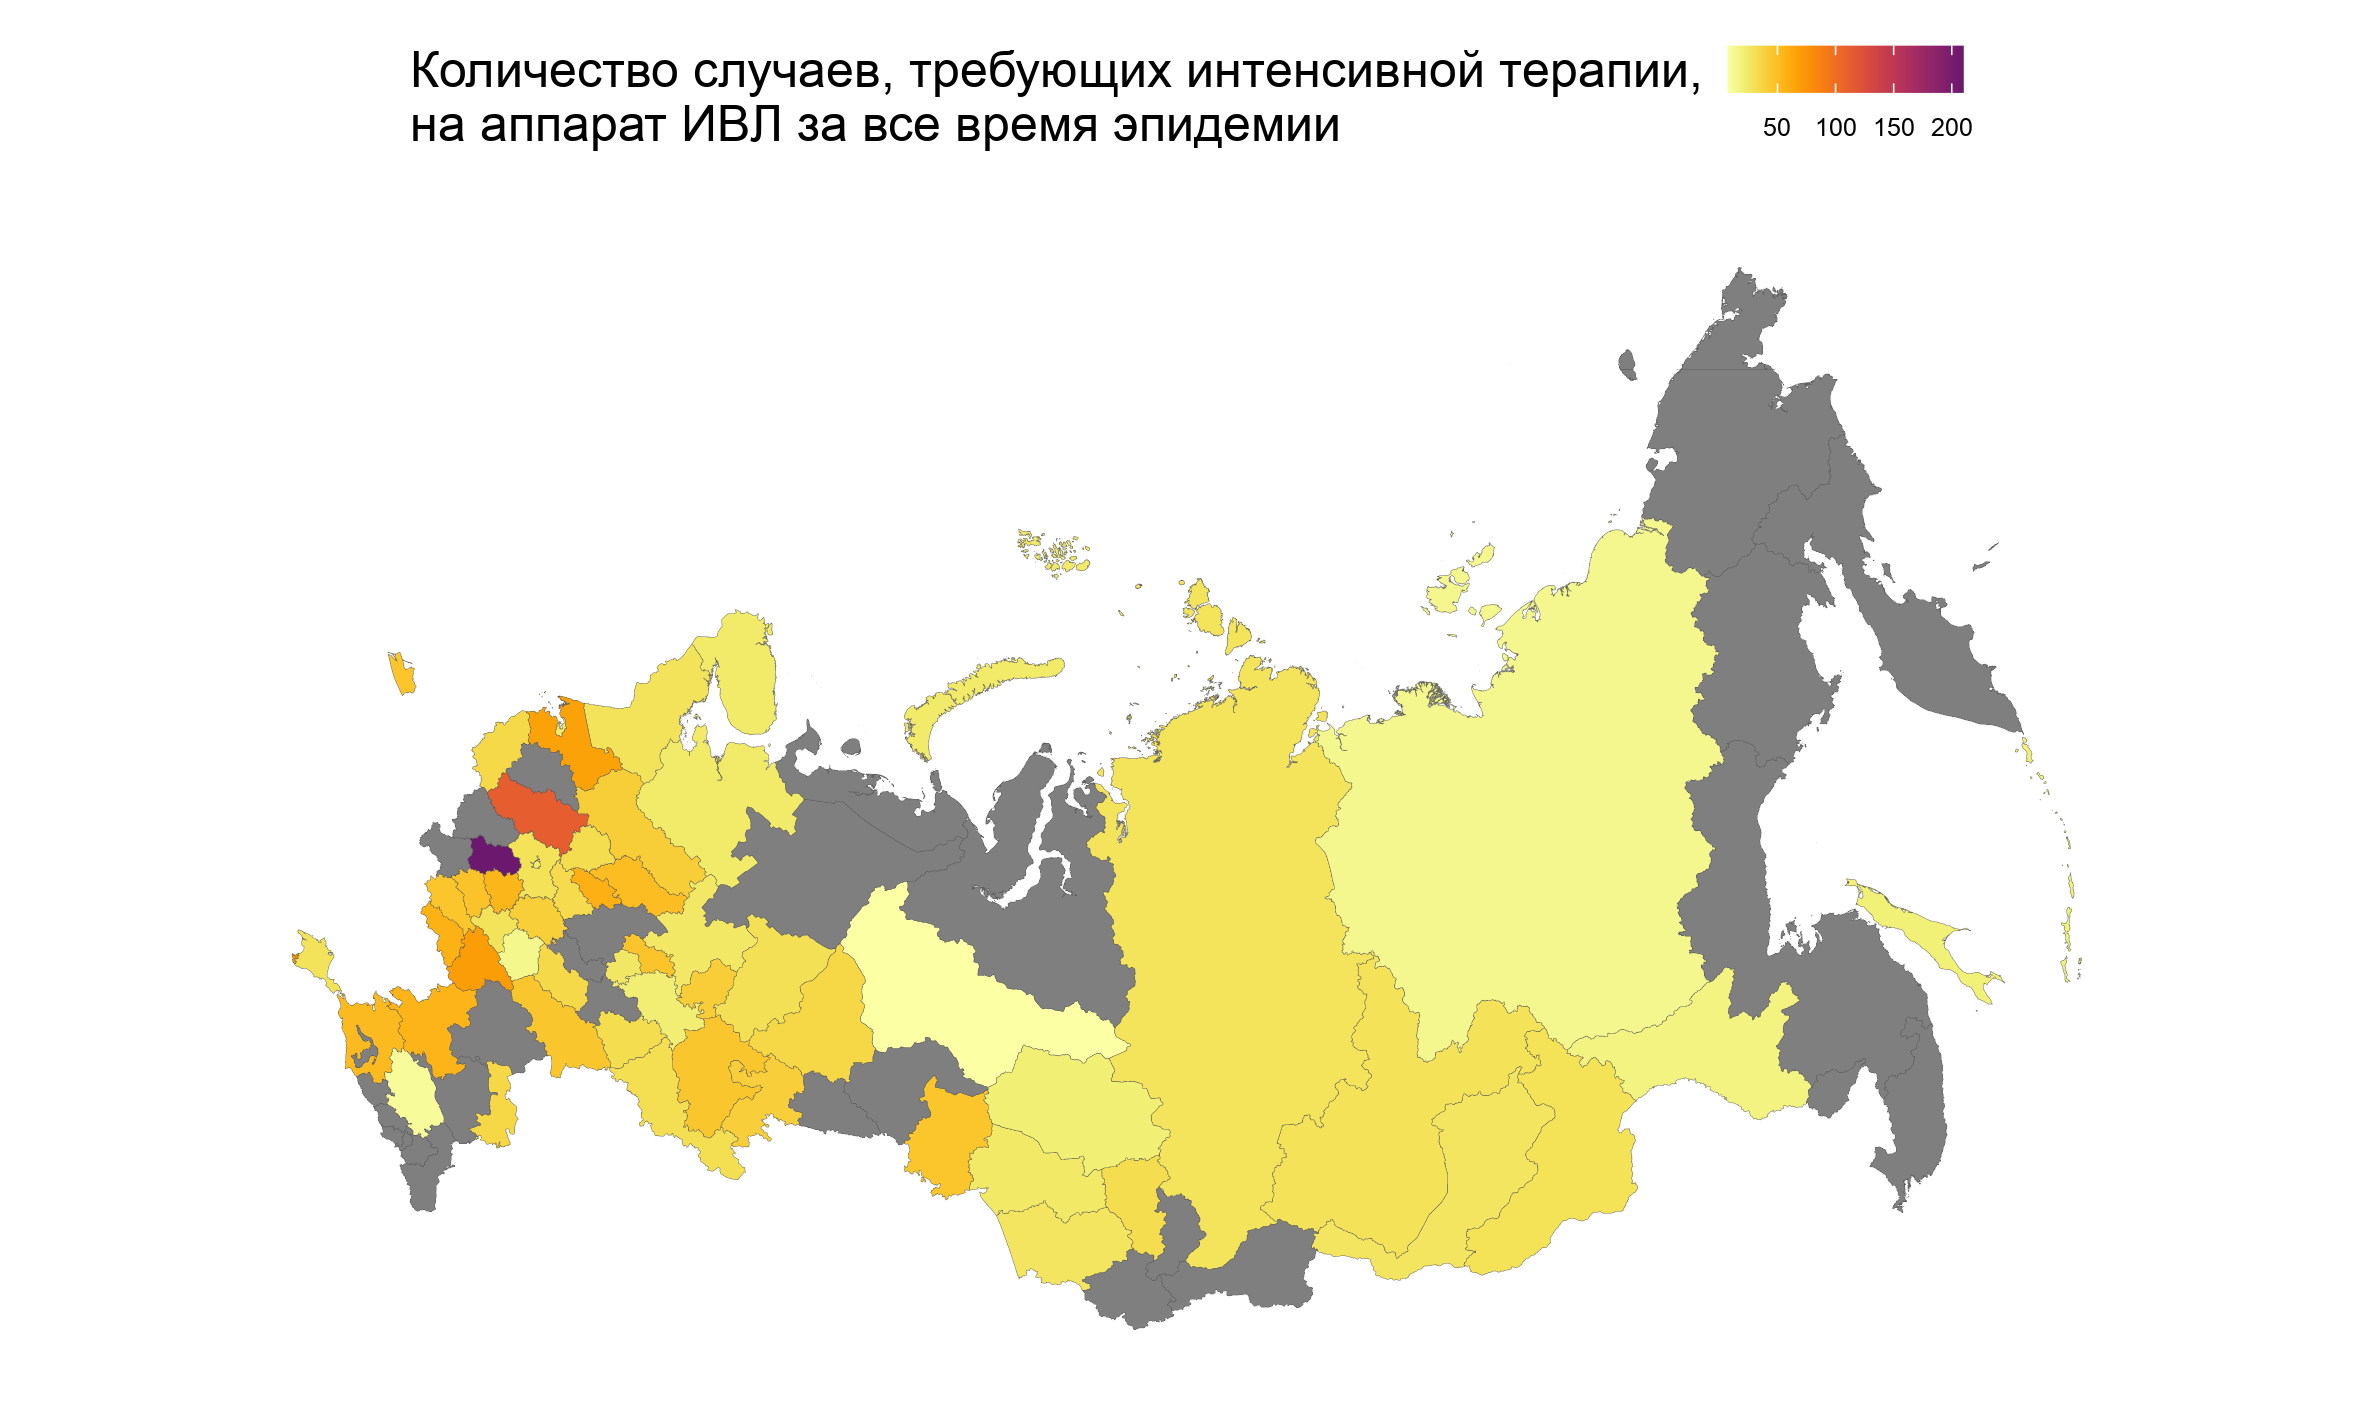
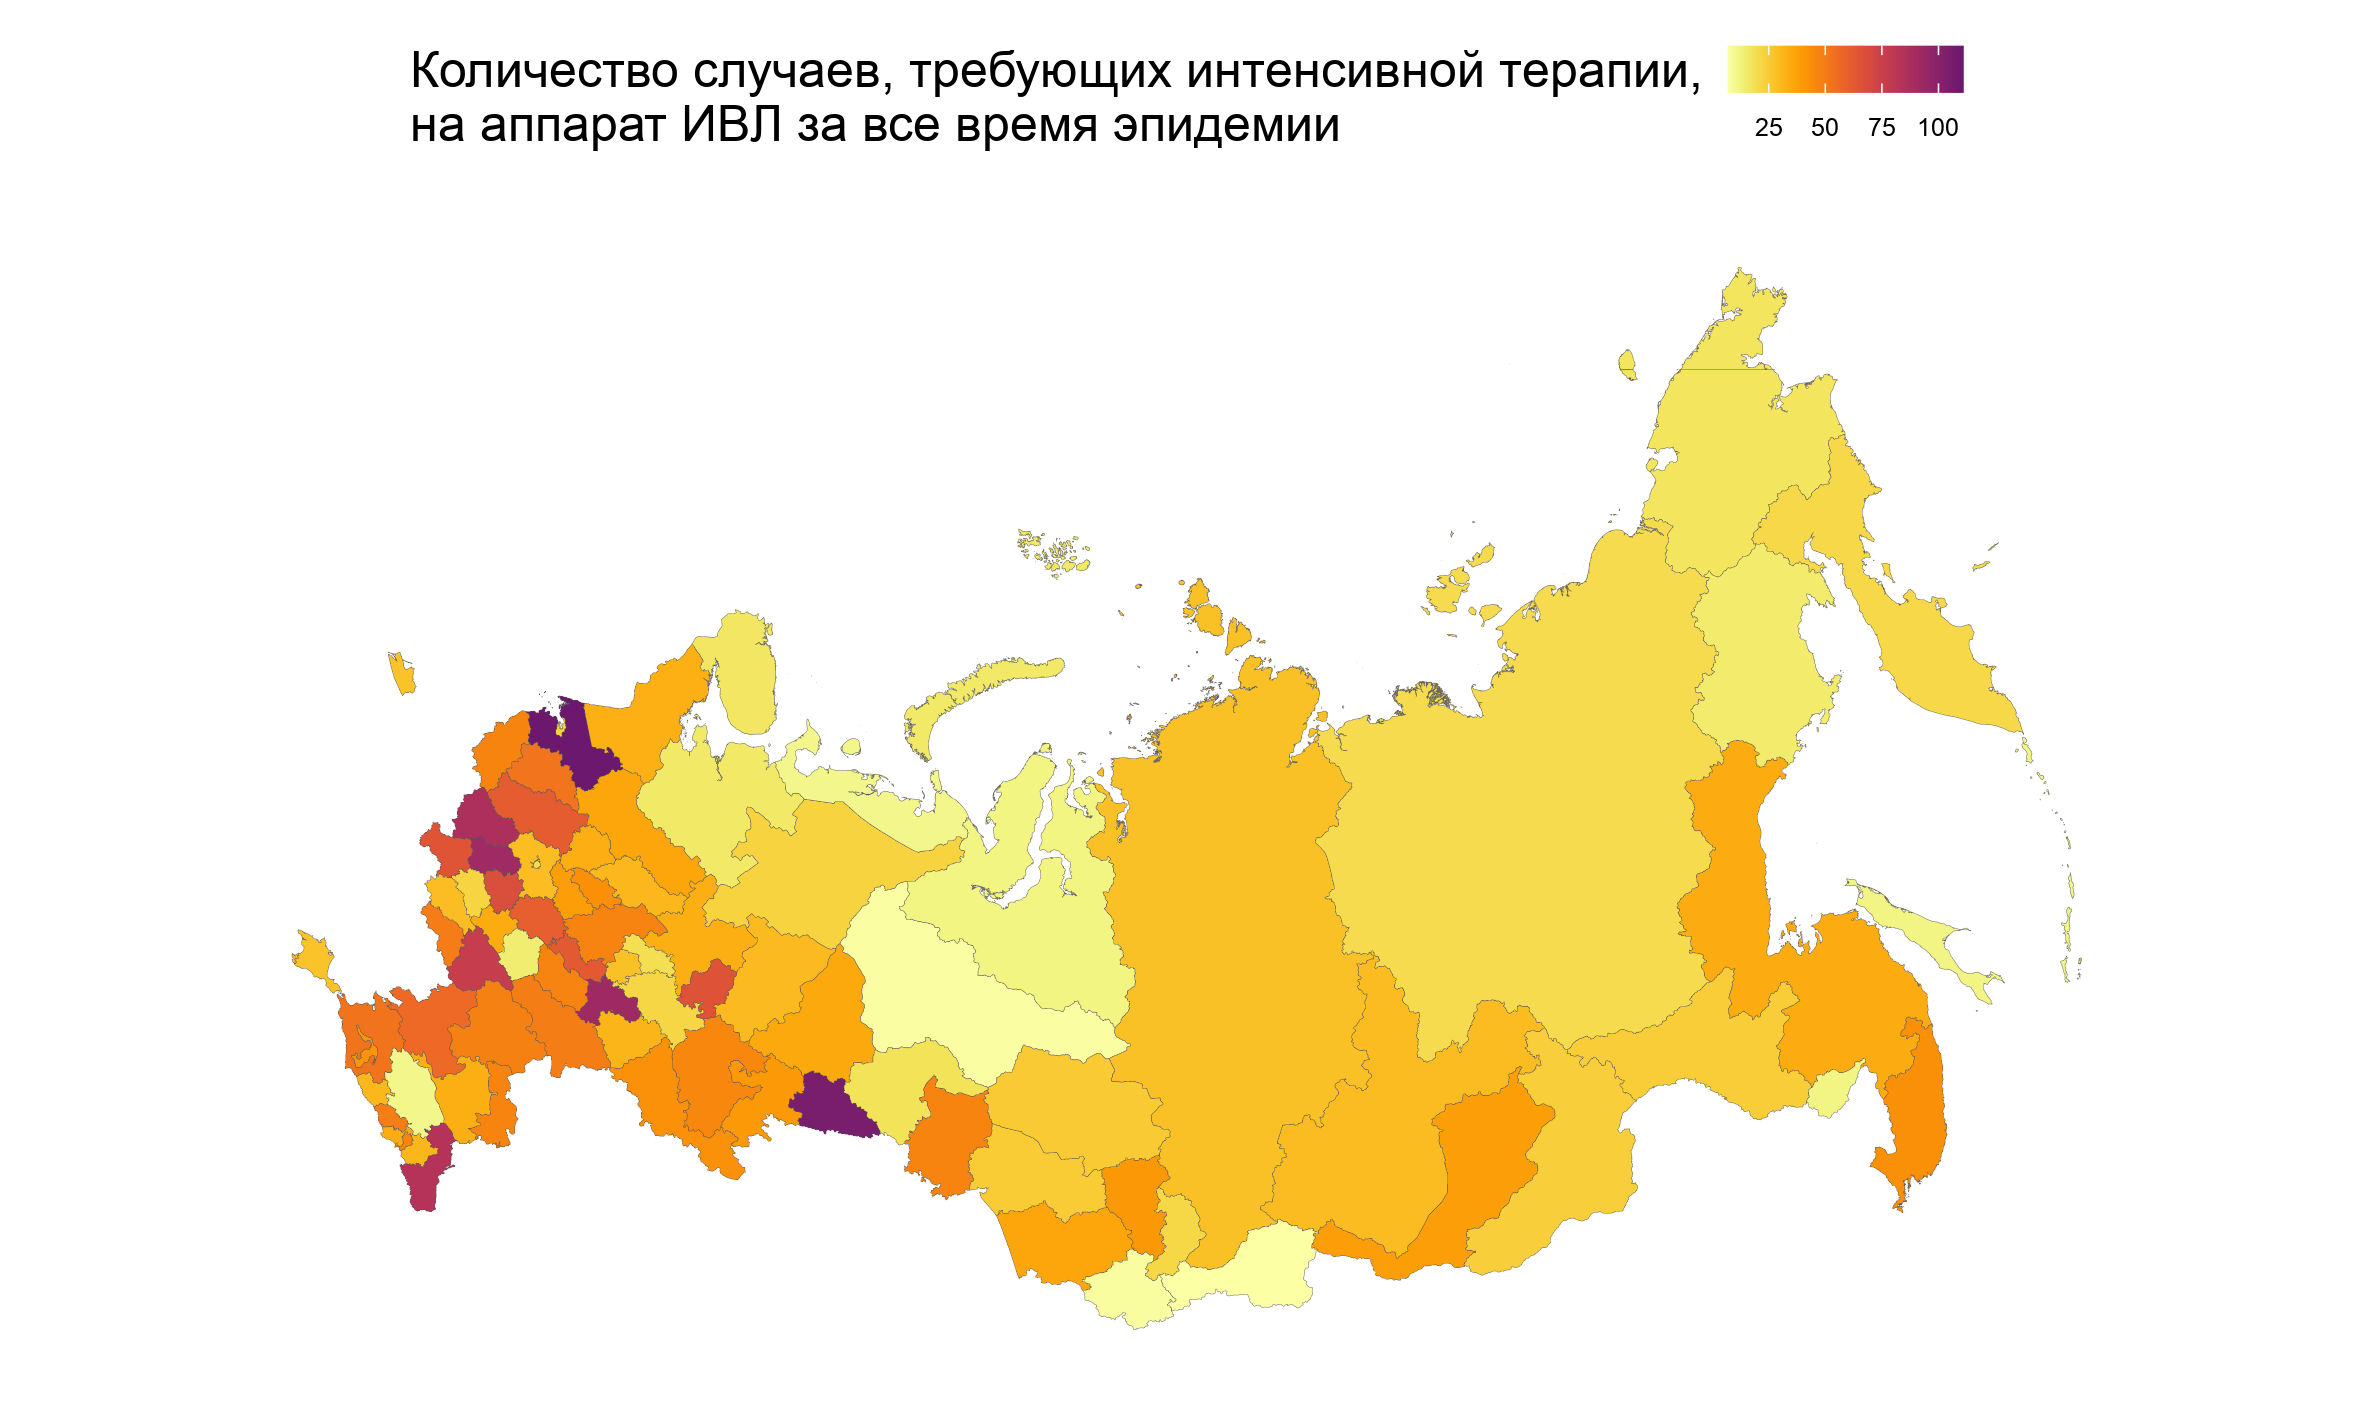
update IMV data

Changed region(s): [[0.1236, 0.1863, 0.8654, 0.9315], [0.7417, 0.0621, 0.8345, 0.0932], [0.4945, 0.4037, 0.5254, 0.4658]]

diff --git a/README_ru.md b/README_ru.md
@@ -64,7 +64,7 @@
 
 ![alt text](https://github.com/garushyants/covid19_russia_mapping/blob/master/Figures_ru/Fig5IMVper100000ru.png)
 
-Как показано выше, разница в демографической структуре между регионами будет приводить к изменению доли случаев, требующих интенсивной терапии. На фоне разного количества аппаратов ИВЛ в разных регионах эта разница ведет к значительным отличиям в нагрузке на аппараты ИВЛ в разных регионах в течение эпидемии. Оценочное число случаев, требующих интенсивной терапии, за время всей эпидемии в расчете на один аппарат ИВЛ варьирует от 7,4 в Ханты-Мансийском автономном округе до 210,0 в Калужской области.
+Как показано выше, разница в демографической структуре между регионами будет приводить к изменению доли случаев, требующих интенсивной терапии. На фоне разного количества аппаратов ИВЛ в разных регионах эта разница ведет к значительным отличиям в нагрузке на аппараты ИВЛ в разных регионах в течение эпидемии. Оценочное число случаев, требующих интенсивной терапии, за время всей эпидемии в расчете на один аппарат ИВЛ варьирует от 7,0 в Республике Тыва и 7,4 в Ханты-Мансийском автономном округе до 111,0 в Ленинградской области.
 
 ![alt text](https://github.com/garushyants/covid19_russia_mapping/blob/master/Figures_ru/Fig6CasesperIMVru.png)
 
@@ -79,6 +79,7 @@
 ### Данные по количеству аппаратов ИВЛ
 Оценки числа аппаратов ИВЛ по регионам России были получены из статьи на сайте [meduza.io](https://meduza.io/feature/2020/03/20/v-italii-iz-za-koronavirusa-katastroficheski-ne-hvataet-apparatov-ivl-v-rossii-ih-gorazdo-bolshe-no-eto-ne-znachit-chto-my-luchshe-gotovy-k-epidemii) и дополнены данными, опубликованными агенством Headway в [отчете](https://www.hwcompany.ru/blog/expert/nali4ie_apparatov_ivl_na_22_03_2020).
 Итоговая таблица, содержащая эти данные,  [IMV_meduza_impr.csv](https://github.com/garushyants/covid19_russia_mapping/blob/master/IMV_meduza_impr.csv) находится в репозитории.
+Update!!! Теперь мы используем данные по ИВЛ для всех регионов, основанные на анализе закупок, проведенных компанией Headway. Эти данные взяты из репозитория [ikashnitsky](https://github.com/ikashnitsky/covid19-russia)
 
 ### Оценки смертности и количества госпитализаций больных COVID-19
 Оценки уровня смертности и госпитализации были получены из статьи [Verity et al., 2020](https://www.medrxiv.org/content/10.1101/2020.03.09.20033357v1.full.pdf). Мы предположили, что уровень госпитализации на инфекцию для возрастной группы 0-9 составляет 0.001. Оценки числа случаев, требующих интенсивной терапии, для разных возрастных групп получены из [Ferguson et al., 2020](https://www.imperial.ac.uk/media/imperial-college/medicine/sph/ide/gida-fellowships/Imperial-College-COVID19-NPI-modelling-16-03-2020.pdf). 

diff --git a/README.md b/README.md
@@ -61,7 +61,7 @@ Here, we analyze the availability of IMV units across regions from public data. 
 
 ![alt text](https://github.com/garushyants/covid19_russia_mapping/blob/master/Figures/Fig5IMVper100000.png)
 
-As shown above, differences in demographic structure between regions will lead to differences in the proportion of population requiring critical care. Combined with discrepancies in the numbers of units, this leads to major differences between regions in IMV unit occupancies over the course of the epidemic. The predicted cumulative number of critical cases per IMV unit ranges between 7.4 for the Khanty-Mansiyskiy region and 210.0 for the Kaluzhskaya region. 
+As shown above, differences in demographic structure between regions will lead to differences in the proportion of population requiring critical care. Combined with discrepancies in the numbers of units, this leads to major differences between regions in IMV unit occupancies over the course of the epidemic. The predicted cumulative number of critical cases per IMV unit ranges between 7.0 in Tyva 7.4 for the Khanty-Mansiyskiy region and 111.0 for the Leningradsky region. 
 
 ![alt text](https://github.com/garushyants/covid19_russia_mapping/blob/master/Figures/Fig6CasesperIMV.png)
 
@@ -78,6 +78,7 @@ Maps for Russia and Ukraine were downloaded from [GADM](https://gadm.org/downloa
 ### IMV data
 Estimates for the numbers of invasive mechanical ventilators (IMV) were obtained from [meduza.io](https://meduza.io/feature/2020/03/20/v-italii-iz-za-koronavirusa-katastroficheski-ne-hvataet-apparatov-ivl-v-rossii-ih-gorazdo-bolshe-no-eto-ne-znachit-chto-my-luchshe-gotovy-k-epidemii) with additions from Headway [current report](https://www.hwcompany.ru/blog/expert/nali4ie_apparatov_ivl_na_22_03_2020).
 The resulting table [IMV_meduza_impr.csv](https://github.com/garushyants/covid19_russia_mapping/blob/master/IMV_meduza_impr.csv) is available in repository.
+Update!! We know use the data on ventilators from Headway, provided in [ikashnitsky repo](https://github.com/ikashnitsky/covid19-russia)
 
 ### Fatality and hospitalization rates
 Data on fatality and hospitalization rates was obtained from [Verity et al., 2020](https://www.medrxiv.org/content/10.1101/2020.03.09.20033357v1.full.pdf), with the hospitalization rate for the age group 0-9 assumed to equal 0.001. Data on cases requiring critical care was obtained from [Ferguson et al., 2020](https://www.imperial.ac.uk/media/imperial-college/medicine/sph/ide/gida-fellowships/Imperial-College-COVID19-NPI-modelling-16-03-2020.pdf). 
